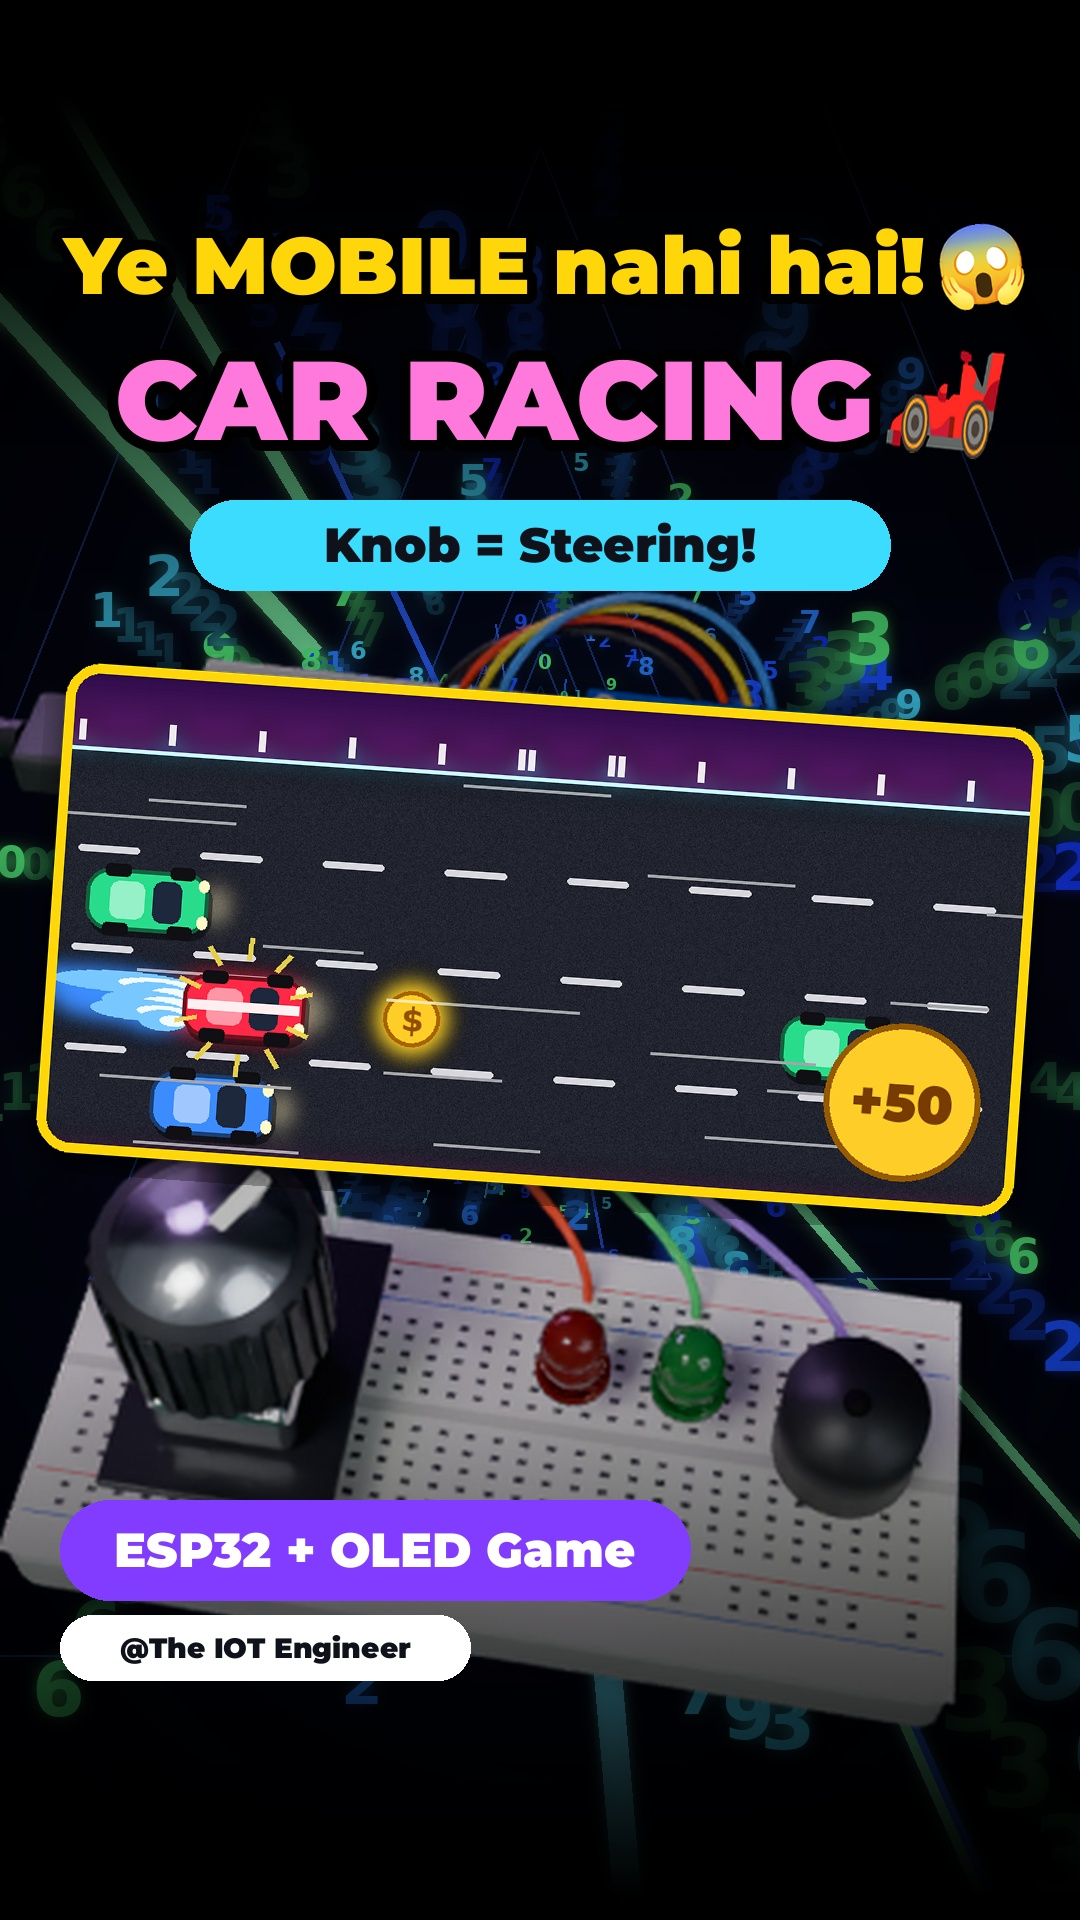
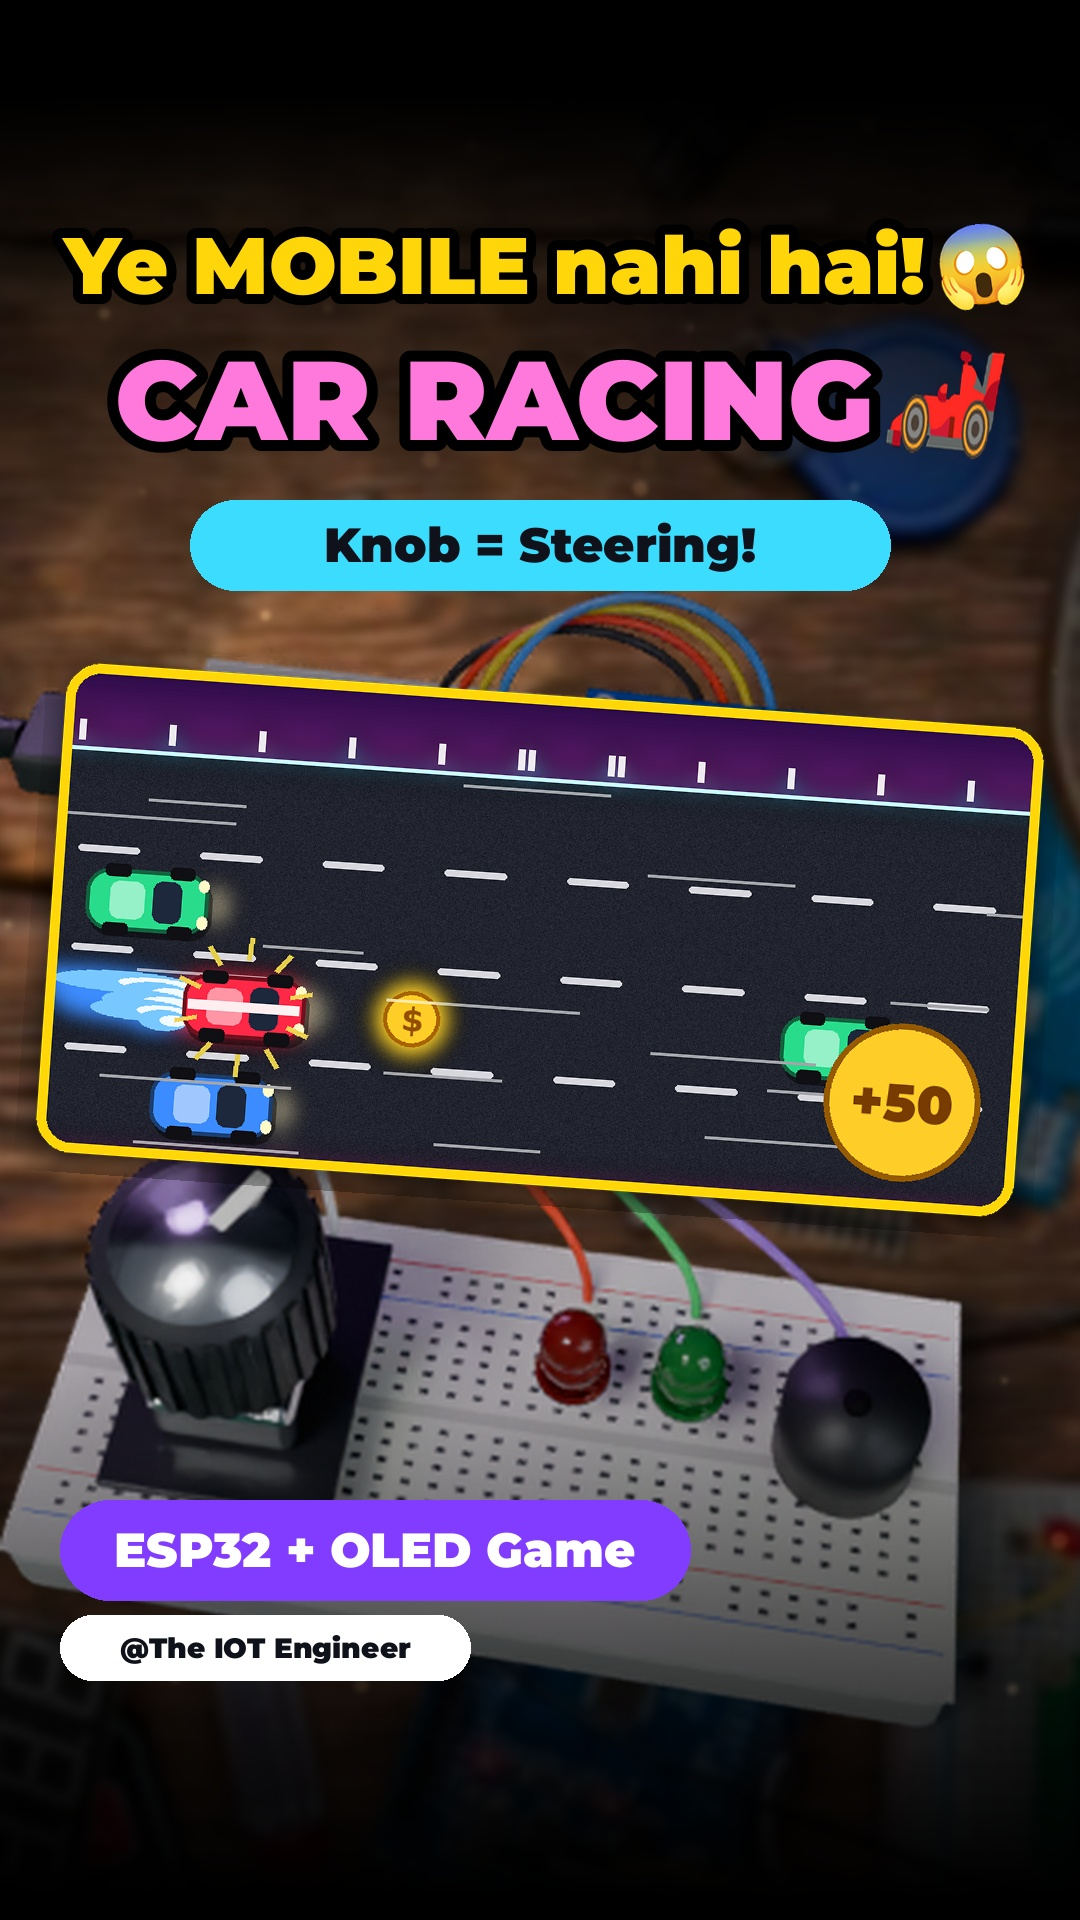
edit30: animated wooden-workbench background (DOF blur, looping pan/zoom, lamp light, dust) instead of the tunnel
Claude-Session: https://claude.ai/code/session_01CESTBAn4oodXJcbmRSTh5m

diff --git a/edit30/workbench.py b/edit30/workbench.py
@@ -1,0 +1,73 @@
+#!/usr/bin/env python3
+"""Animated workbench backdrop (1080x1920) from the user's wooden-table electronics photo: depth-of-field
+blur, slow seamless-loop pan + breathing zoom across the wide photo, a warm lamp light that drifts over the
+table, floating dust / bokeh specks and a soft vignette. workbench(f) -> RGB uint8 (frame N == frame 0)."""
+import math
+import os
+
+import cv2
+import numpy as np
+
+HERE = os.path.dirname(os.path.abspath(__file__))
+W, H, N = 1080, 1920, 312
+_SRC = None
+
+
+def _src():
+    global _SRC
+    if _SRC is None:
+        im = cv2.cvtColor(cv2.imread(os.path.join(HERE, "assets", "workbench.webp")), cv2.COLOR_BGR2RGB)
+        hh = int(H * 1.12)
+        ww = int(im.shape[1] * hh / im.shape[0])
+        im = cv2.resize(im, (ww, hh), interpolation=cv2.INTER_CUBIC)
+        im = cv2.GaussianBlur(im, (0, 0), 5)                      # depth of field (the console is in focus)
+        x = im.astype(np.float32)
+        x = (x - 128) * 1.08 + 128                                # a touch more contrast
+        _SRC = np.clip(x * 0.82, 0, 255)
+    return _SRC
+
+
+rng = np.random.default_rng(30)
+ND = 70
+DX, DY = rng.uniform(0, W, ND), rng.uniform(0, H, ND)
+DR = rng.uniform(2, 9, ND)
+DP = rng.uniform(0, 2 * math.pi, ND)
+DA = rng.uniform(0.15, 0.55, ND)
+yy, xx = np.mgrid[0:H, 0:W].astype(np.float32)
+VIG = 1 - 0.5 * np.clip(((xx - W / 2) / (W * 0.8)) ** 2 + ((yy - H * 0.48) / (H * 0.62)) ** 2, 0, 1)
+
+
+def workbench(f):
+    src = _src()
+    ph = 2 * math.pi * (f % N) / N
+    z = 1.0 + 0.03 * (1 - math.cos(ph)) / 2                     # breathing zoom, loops
+    cw, chh = int(W / z), int(H / z)
+    span = src.shape[1] - cw
+    cx = span * (0.45 + 0.2 * math.sin(ph))                      # slow pan across the table, loops
+    cy = (src.shape[0] - chh) / 2
+    crop = src[int(cy):int(cy) + chh, int(cx):int(cx) + cw]
+    x = cv2.resize(crop, (W, H), interpolation=cv2.INTER_LINEAR)
+    lx = W * (0.5 + 0.35 * math.sin(ph + 1.0))                    # warm lamp light drifting over the wood
+    ly = H * (0.38 + 0.08 * math.cos(ph))
+    light = np.exp(-(((xx - lx) / 520) ** 2 + ((yy - ly) / 700) ** 2))[..., None]
+    x = x * (0.78 + 0.45 * light) + np.array((255, 190, 110), np.float32) * 0.10 * light
+    x *= VIG[..., None]
+    out = np.clip(x, 0, 255).astype(np.uint8)
+    lay = np.zeros_like(out)
+    for i in range(ND):                                           # dust / bokeh specks floating up, loops
+        px = int((DX[i] + 18 * math.sin(ph * 2 + DP[i])) % W)
+        py = int((DY[i] - H * (f % N) / N * 0.35) % H)
+        a = DA[i] * (0.6 + 0.4 * math.sin(ph * 3 + DP[i]))
+        cv2.circle(lay, (px, py), int(DR[i]), (int(255 * a), int(225 * a), int(170 * a)), -1, cv2.LINE_AA)
+    lay = cv2.GaussianBlur(lay, (0, 0), 2.5)
+    return np.clip(out.astype(np.int16) + lay, 0, 255).astype(np.uint8)
+
+
+if __name__ == "__main__":
+    import sys
+    from PIL import Image
+    ims = [Image.fromarray(workbench(f)).resize((360, 640)) for f in (0, 80, 160, 240)]
+    c = Image.new("RGB", (1440, 640))
+    for i, im in enumerate(ims):
+        c.paste(im, (i * 360, 0))
+    c.save(sys.argv[1])

diff --git a/edit30/build_short.py b/edit30/build_short.py
@@ -3,7 +3,7 @@
 no blur transitions): gameplay + hook text from frame 0 ('Ye MOBILE nahi hai!'), the colour GAME CAM panel
 always on screen, hard cuts with a small zoom punch, CLOSE CALL / +50 coin / NITRO / FINISH beats, NEW BEST
 card, and a last shot that ends on the first frame's camera pose so the Short replays seamlessly. All text
-stays inside the Shorts safe zone (top area, never under the title / buttons). Cinematic digital-tunnel
+stays inside the Shorts safe zone (top area, never under the title / buttons). Animated wooden-workbench
 background behind the transparent 3D console render. Chiptune + engine / coin / whoosh / nitro SFX.
 Usage: python3 edit30/build_short.py [audio] [video]
 """
@@ -25,7 +25,7 @@ import build_edit as fx  # noqa: E402
 from timeline import (FPS, N, SHOTS, HIGH_OLD, NITRO_AT, FINISH, DODGE, COINS, PX, CAR_W, COIN_COL,  # noqa: E402
                       game, final_score, ease)
 import gamegfx  # noqa: E402
-from tunnel import tunnel  # noqa: E402
+from workbench import workbench  # noqa: E402
 
 _spec = importlib.util.spec_from_file_location("e5b", os.path.join(ROOT, "edit5", "build_short.py"))
 e5 = importlib.util.module_from_spec(_spec)
@@ -85,12 +85,12 @@ def load3d(f):
 
 
 def with_tunnel(im, f):
-    """Transparent console render (BGRA, shadow-caught) over the animated cinematic digital tunnel."""
+    """Transparent console render (BGRA, shadow-caught) over the animated wooden workbench backdrop."""
     if im.ndim == 2 or im.shape[2] < 4:
         return im
     im = cv2.resize(im, (W, H), interpolation=cv2.INTER_CUBIC)
     a = im[..., 3:4].astype(np.float32) / 255
-    bg = cv2.cvtColor(tunnel(f), cv2.COLOR_RGB2BGR).astype(np.float32) * 0.85
+    bg = cv2.cvtColor(workbench(f), cv2.COLOR_RGB2BGR).astype(np.float32)
     return (im[..., :3].astype(np.float32) * a + bg * (1 - a)).clip(0, 255).astype(np.uint8)
 
 

diff --git a/edit30/thumbnail/make_thumbnail.py b/edit30/thumbnail/make_thumbnail.py
@@ -12,7 +12,7 @@ from PIL import Image, ImageDraw, ImageEnhance, ImageFilter, ImageFont
 HERE = os.path.dirname(os.path.abspath(__file__))
 sys.path.insert(0, os.path.join(HERE, ".."))
 import gamegfx  # noqa: E402
-from tunnel import tunnel  # noqa: E402
+from workbench import workbench  # noqa: E402
 
 WORK = os.path.join(HERE, "..", "work")
 FRAME = sys.argv[1] if len(sys.argv) > 1 else os.path.join(WORK, "frames3d", "0150.png")
@@ -56,11 +56,11 @@ def game_card(w, ang=-4):
 
 
 def on_tunnel(im):
-    """The 3D frame is rendered on transparent film; put it on the cinematic digital tunnel."""
+    """The 3D frame is rendered on transparent film; put it on the animated workbench backdrop."""
     if im.mode != "RGBA":
         return im.convert("RGB")
     im = im.resize((1080, 1920), Image.LANCZOS)
-    bg = Image.fromarray(tunnel(250)).convert("RGBA")
+    bg = Image.fromarray(workbench(150)).convert("RGBA")
     bg.alpha_composite(im)
     return bg.convert("RGB")
 
